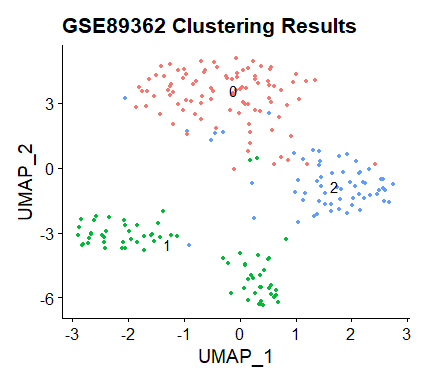
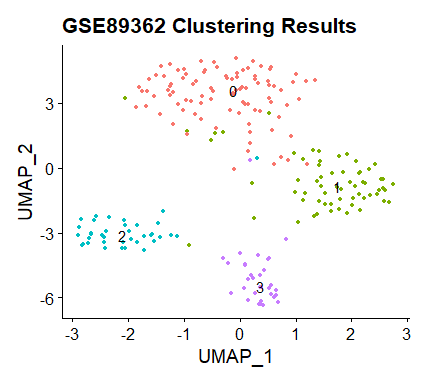
added depthCor to example and increased clustering resolution

diff --git a/README.md b/README.md
@@ -106,7 +106,7 @@ This will return a list containing dataset GSE89362. The dataset is stored as a 
 
 #### Datasets represented by multiple matrices
 
-Due to some datasets contain data gathered from several different organisims (such as both mice and human) or experimental conditions, some datasets are represtented by several entries with the same reference and accession, but containing different data. The "Data_Summary" and "matrix_names" field in the returned metadata table specify the contents of datasets with multiple entries. An example is given below:
+Due to some datasets contain data gathered from several different organisims (such as both mice and human) or experimental conditions, some datasets are represtented by several entries with the same reference and accession, but containing different data. The *Data_Summary* and *matrix_names* field in the returned metadata table specify the contents of datasets with multiple entries. An example is given below:
 
 This single study collected data relating to carcinoma, and was found using *queryATAC(disease = carcinoma, metadata_only = TRUE)*. As shown below, there are 4 entries for data from one study.
 
@@ -173,13 +173,14 @@ The rownames of this dataframe contains the cell barcode or cell ID, the second 
 
 ### Example: Using returned datasets with scATAC-seq analysis pipelines
 
-Analysis pipelines are commonly used in research for working with scATAC-seq data. Many of these pipelines have been created as packages for R. Not every pipeline uses the SingleCellExperiment object as an input, such as the commonly used R toolkit Seurat (more info at <https://satijalab.org/seurat/>), extended for scATAC-seq analysis by Signac (more info at <https://satijalab.org/signac/index.html>). Seurat is a R package commonly used for both scRNA-seq and scATAC-seq analysis. Datasets from scATAC.Explorer can be easily converted to Seurat objects :
+Analysis pipelines are commonly used in research for working with scATAC-seq data. Many of these pipelines have been created as packages for R. Not every pipeline uses the SingleCellExperiment object as an input, such as the commonly used R toolkit Seurat (more info at <https://satijalab.org/seurat/>), extended for scATAC-seq analysis by Signac (more info at <https://satijalab.org/signac/index.html>). Seurat is a R package commonly used for both scRNA-seq and scATAC-seq analysis.
 
-Datasets retrieved using scATAC.Explorer can easily be converted to Seurat objects :
+Datasets retrieved using scATAC.Explorer can easily be converted to Seurat objects:
 
 ```R
 library(Seurat)
 library(Signac)
+# GSE89362 is used as an example, as it is the smallest dataset included within scATAC.Explorer
 > res = queryATAC(accession = "GSE89362")
 > GSE89362_assay <- CreateChromatinAssay(counts = counts(res[[1]]), sep = c("-", "-"))
 > GSE89362_obj <- CreateSeuratObject(counts = GSE89362_assay , assay = "peaks")
@@ -188,16 +189,21 @@ library(Signac)
 
 ![Screenshot of datasets with cell type labels](docs/seuratObjectConversion.png)
 
-Once converted to a Seurat object, Signac functions can be used to preform further analysis. A quick example of this is shown by generating UMAP projections and clustering of cells retrieved from GSE89362.
+Once converted to a Seurat object, functions from Signac can be used to preform further analysis. A quick example of this is shown by generating UMAP projections and clustering of cells retrieved from GSE89362.
 
 ```R
 library(ggplot2)
+# these three function below preform Latent Semantic Indexing (LSI), neccessary for Seurat UMAP projection and clustering
 > GSE89362_obj <- RunTFIDF(GSE89362_obj)
 # setting cutoff to be top 100% so every feature gets a percentile rank assigned to it
 > GSE89362_obj <- FindTopFeatures(GSE89362_obj, min.cutoff = "q0")
 > GSE89362_obj <- RunSVD(GSE89362_obj)
 
-# run UMAP reduction
+# generates a correlation plot between sequencing depth and LSI components. By observing the plot we can see the first LSI component is highly correlated with sequencing depth.
+# due to this, the first dimension of the LSI component will not be used in further analysis as a quality control step.
+> DepthCor(GSE89362_obj)
+
+# run UMAP reduction, excluding the LSI first dimension as we are 
 > GSE89362_obj <- RunUMAP(GSE89362_obj, dims = 2:30, reduction = 'lsi')
 
 # plotting UMAP
@@ -206,20 +212,22 @@ library(ggplot2)
   theme(legend.position="none")
 > UMAP.plt
 
-# clustering
+# clustering first by finding neighbours
 > GSE89362_obj <- FindNeighbors(
   object = GSE89362_obj,
   reduction = 'lsi',
   dims = 2:30
 )
 
-# algorithm 1 = Using Louvain clustering algorithm
+# finding and creating cluster annotations
+# algorithm 1 = Louvain clustering algorithm
 > GSE89362_obj <- FindClusters(
   object = GSE89362_obj,
-  resolution = 0.8,
+  resolution = 1.1,
   algorithm = 1,
   verbose = FALSE
 )
+# generating UMAP plot with cluster assignments
 > cluster.plt <- DimPlot(object = GSE89362_obj, label = TRUE) + NoLegend()
 > cluster.plt
 ```
